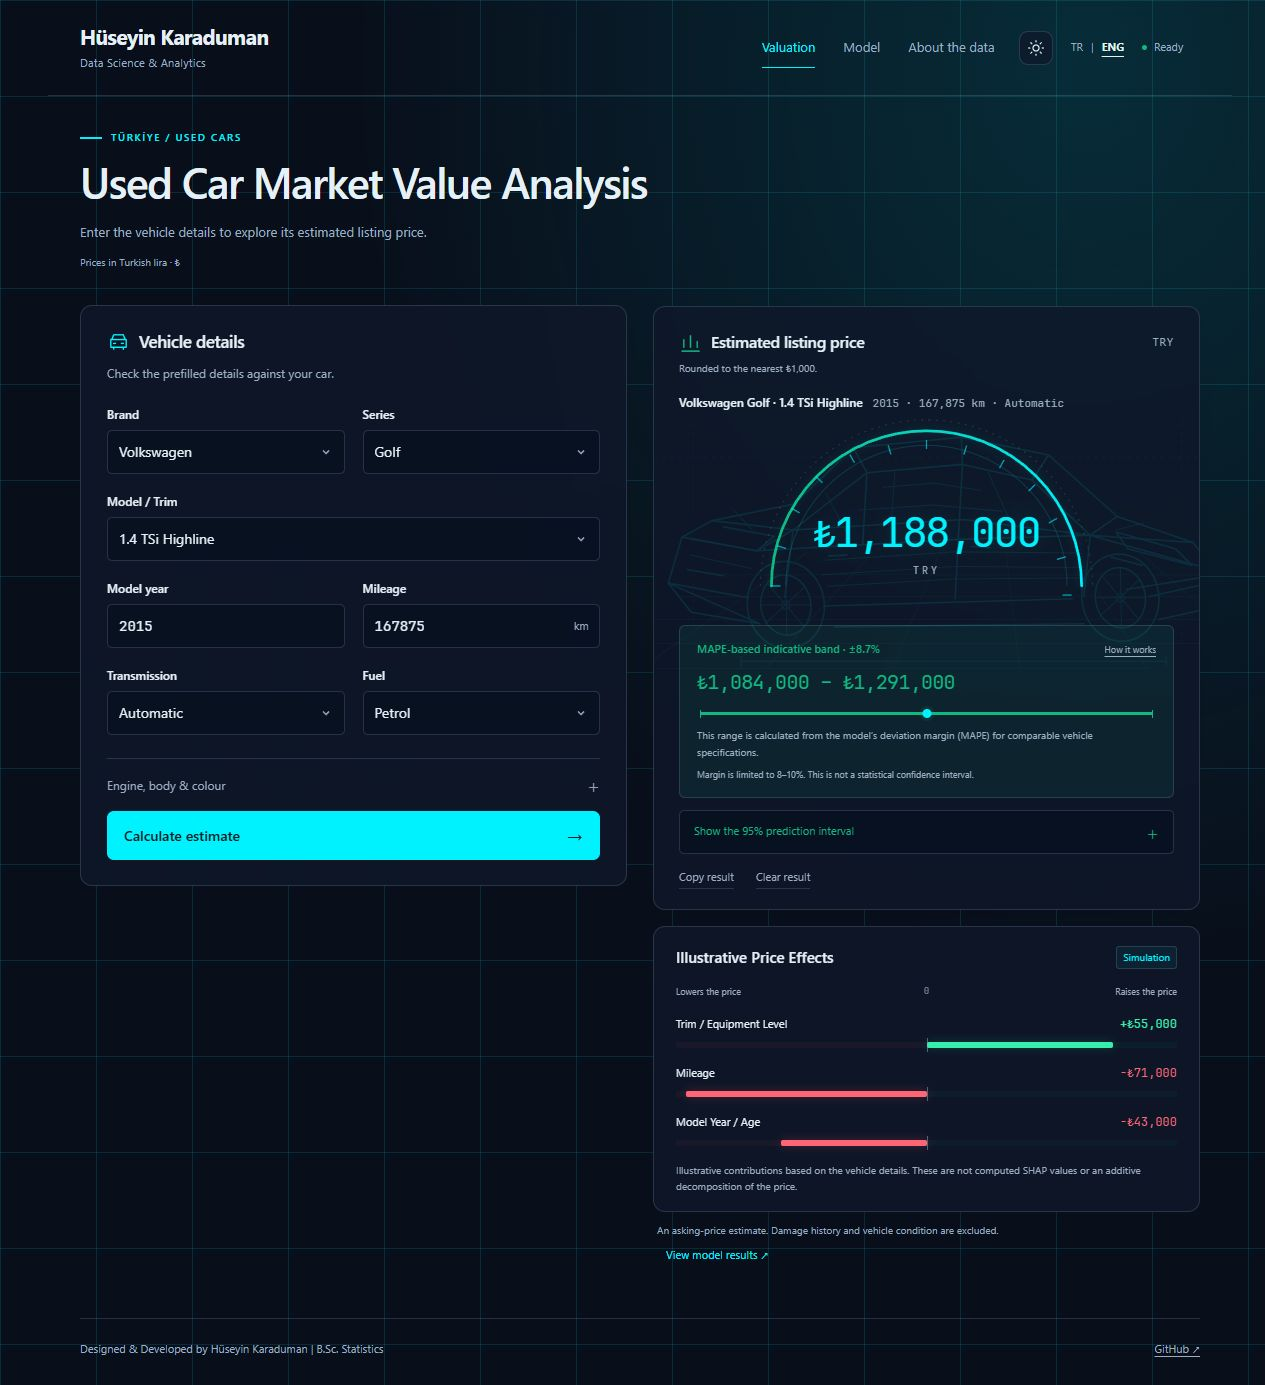
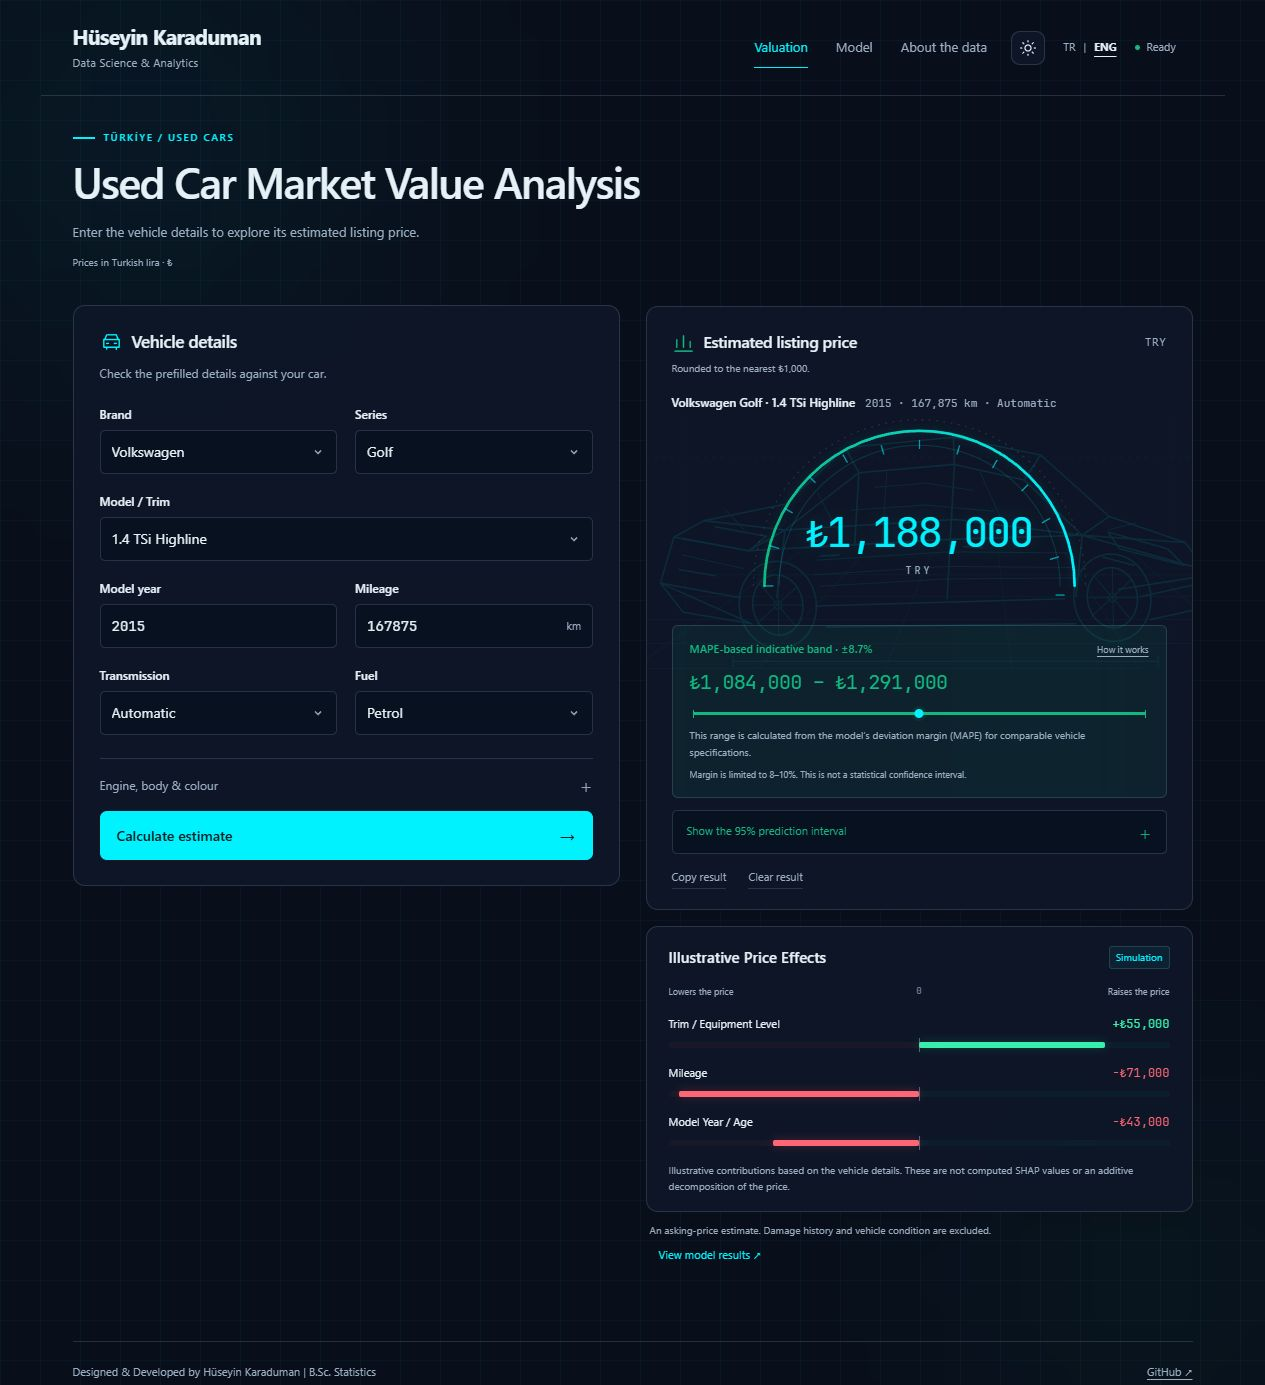
Add ambient aurora lighting and a fine engineering grid

diff --git a/docs/theme.css b/docs/theme.css
@@ -10,6 +10,7 @@
   color-scheme: dark;
   --mono: 'JetBrains Mono', 'Fira Code', Consolas, monospace;
   --glow: rgba(0, 242, 254, .13);
+  --grid: rgba(0, 242, 254, .04);
   --ink: #e5f1f7;
   --muted: #9caec1;
   --paper: #080f1b;
@@ -33,6 +34,7 @@
 :root[data-theme="light"] {
   color-scheme: light;
   --glow: rgba(0, 139, 156, .1);
+  --grid: rgba(0, 126, 138, .04);
   --ink: #172c3b;
   --muted: #526b7d;
   --paper: #eef5f8;
@@ -115,10 +117,7 @@ input[type=number], select { border-radius:5px; border-color:var(--line); backgr
 .impact-list strong { font-size:12px; font-weight:400; letter-spacing:0; }
 .impact-note { font-size:10px; line-height:1.6; }
 .stat-grid { gap:15px; border:0; }
-.stat-card { border:1px solid var(--line); border-radius:7px; padding:20px 22px; background:var(--teal-soft); }
-.stat-card:nth-child(2) { background:var(--cyan-soft); border-color:var(--line); }
-.stat-card:nth-child(3) { background:var(--raised); border-color:var(--line); }
-.stat-card:nth-child(4) { background:var(--teal-soft); border-color:var(--line); }
+.stat-card { border:1px solid var(--line); border-radius:7px; padding:20px 22px; background:var(--surface); }
 .stat-card strong { color:var(--ink); }
 .model-table-panel { border-top:3px solid var(--teal); }
 .importance-insight { color:var(--teal); font-size:13px; line-height:1.8; padding:14px 17px; border-left:3px solid var(--teal); background:var(--teal-soft); border-radius:0 5px 5px 0; margin:15px 0; }
@@ -197,12 +196,31 @@ tr.winner { background:var(--teal-soft); }
 }
 
 body {
-  background-image:radial-gradient(ellipse at 85% 5%, var(--glow), transparent 48%),
-    linear-gradient(var(--glow) 1px, transparent 1px), linear-gradient(90deg, var(--glow) 1px, transparent 1px);
-  background-size:100% 100%, 96px 96px, 96px 96px;
+  position:relative;
+  isolation:isolate;
+  background-image:linear-gradient(var(--grid) 1px, transparent 1px), linear-gradient(90deg, var(--grid) 1px, transparent 1px);
+  background-size:40px 40px;
   background-attachment:scroll;
 }
-.panel, .estimate-card, .notes-card {
+.ambient-light { position:absolute; inset:0; overflow:hidden; z-index:-1; pointer-events:none; }
+.ambient-orb { position:absolute; display:block; border-radius:50%; animation:aurora-drift 26s ease-in-out infinite; }
+.ambient-orb-cyan {
+  top:-150px; left:-150px; width:600px; height:600px;
+  background:radial-gradient(rgba(0, 242, 254, .08), transparent 70%);
+  filter:blur(120px);
+}
+.ambient-orb-emerald {
+  right:-100px; bottom:-100px; width:500px; height:500px;
+  background:radial-gradient(rgba(16, 185, 129, .06), transparent 70%);
+  filter:blur(100px);
+  animation-direction:reverse;
+  animation-duration:32s;
+}
+@keyframes aurora-drift {
+  0%, 100% { transform:translate3d(0, 0, 0); }
+  50% { transform:translate3d(30px, 20px, 0); }
+}
+.panel, .estimate-card, .notes-card, .stat-card {
   background:var(--surface);
   -webkit-backdrop-filter:blur(16px);
   backdrop-filter:blur(16px);
@@ -216,7 +234,7 @@ body {
   box-shadow:0 0 0 1px var(--glow), 0 0 24px var(--glow);
 }
 @media(hover:hover) {
-  .panel:hover, .estimate-card:hover, .notes-card:hover {
+  .panel:hover, .estimate-card:hover, .notes-card:hover, .stat-card:hover {
     border-color:var(--accent);
     box-shadow:0 0 0 1px var(--glow), 0 0 28px var(--glow);
   }

diff --git a/docs/index.html b/docs/index.html
@@ -20,6 +20,7 @@
   <script defer src="app.js"></script>
 </head>
 <body>
+  <div class="ambient-light" aria-hidden="true"><span class="ambient-orb ambient-orb-cyan"></span><span class="ambient-orb ambient-orb-emerald"></span></div>
   <header class="site-header">
     <a class="brand personal-brand" href="#estimate" data-i18n-aria-label="home" aria-label="Hüseyin Karaduman ana sayfa"><strong>Hüseyin Karaduman</strong><span class="brand-divider"> | </span><span class="brand-discipline">Data Science &amp; Analytics</span></a>
     <nav class="main-nav" data-i18n-aria-label="navigation" aria-label="Ana menü">
